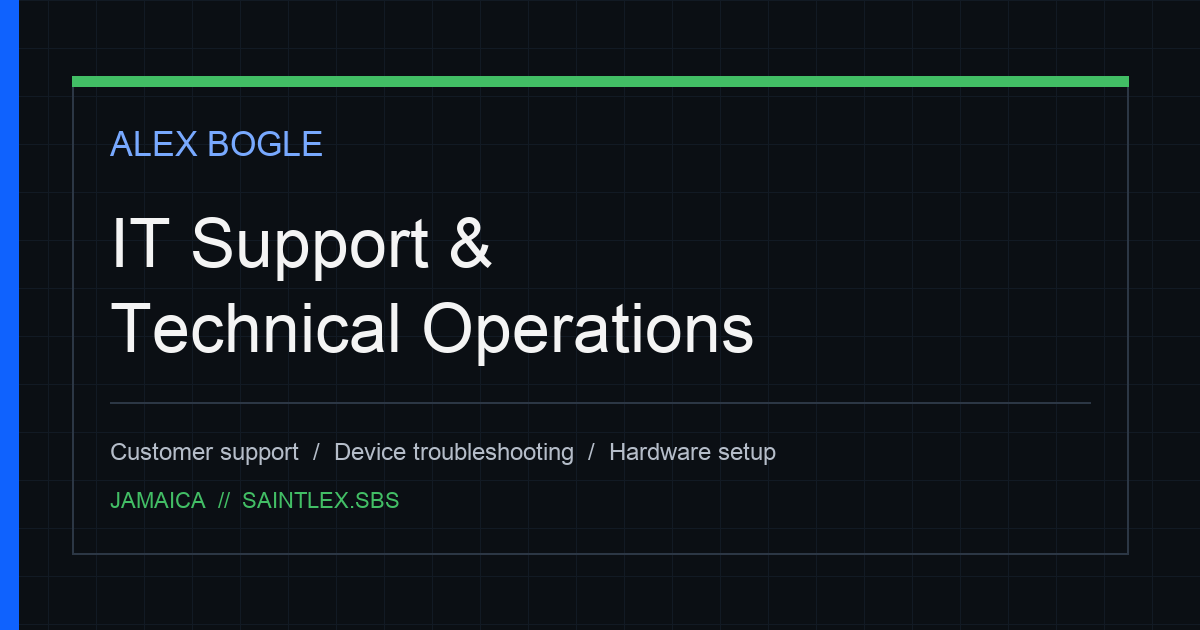
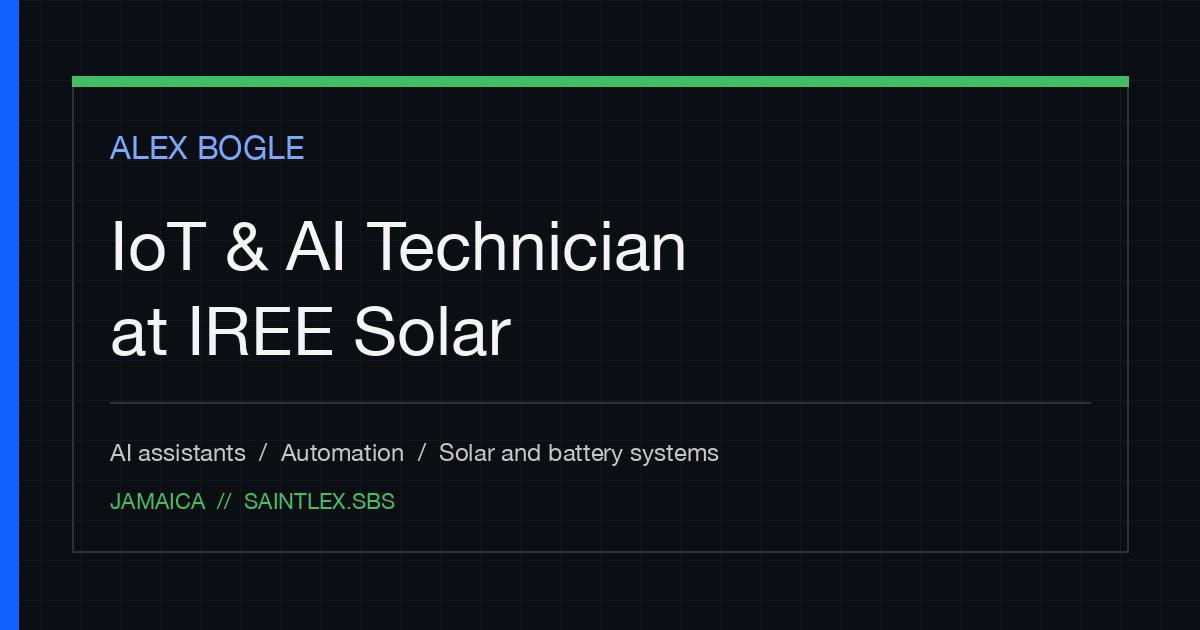
Add current IREE Solar work to portfolio (#23)
* content: add current IREE Solar work to portfolio

Hero, IREE experience bullets, three IREE project cards ahead of the labs,
current-role and energy tool groups, footer date. Design unchanged.

Claude-Session: https://claude.ai/code/session_01Gg8kvj5cPKe7bPg5yoCSs5

* content: refresh link preview image, manifest and meta descriptions

Claude-Session: https://claude.ai/code/session_01Gg8kvj5cPKe7bPg5yoCSs5

* content: reorganise tools around current role, earlier roles and learning

Claude-Session: https://claude.ai/code/session_01Gg8kvj5cPKe7bPg5yoCSs5

* content: make focus areas and contact line reflect current work

Claude-Session: https://claude.ai/code/session_01Gg8kvj5cPKe7bPg5yoCSs5

* content: remove duplicate method and Professional Direction sections

Renumber remaining sections and drop the Method nav link.

Claude-Session: https://claude.ai/code/session_01Gg8kvj5cPKe7bPg5yoCSs5

---------

diff --git a/index.html b/index.html
@@ -4,12 +4,12 @@
   <meta charset="utf-8">
   <meta name="viewport" content="width=device-width, initial-scale=1">
   <title>Alex Bogle | IoT &amp; AI Technician</title>
-  <meta name="description" content="Alex Bogle is an IoT &amp; AI Technician based in Jamaica, working across connected systems, AI-assisted automation, networking, systems integration, technical operations, and energy technology.">
+  <meta name="description" content="Alex Bogle is an IoT &amp; AI Technician at IREE Solar in Jamaica, building AI assistants, automation, and reporting for solar and battery systems.">
   <meta name="theme-color" content="#0b0f14">
   <link rel="canonical" href="https://saintlex.sbs/">
   <meta property="og:type" content="profile">
   <meta property="og:title" content="Alex Bogle | IoT &amp; AI Technician">
-  <meta property="og:description" content="IoT, AI-assisted automation, systems integration, networking, technical operations, and energy technology.">
+  <meta property="og:description" content="IoT &amp; AI Technician at IREE Solar in Jamaica: AI assistants, automation, and solar and battery systems.">
   <meta property="og:url" content="https://saintlex.sbs/">
   <meta property="og:image" content="https://saintlex.sbs/social-preview.png">
   <meta property="og:image:width" content="1200">
@@ -17,7 +17,7 @@
   <meta property="og:image:alt" content="Alex Bogle, IoT and AI Technician">
   <meta name="twitter:card" content="summary_large_image">
   <meta name="twitter:title" content="Alex Bogle | IoT &amp; AI Technician">
-  <meta name="twitter:description" content="IoT, AI-assisted automation, systems integration, networking, technical operations, and energy technology.">
+  <meta name="twitter:description" content="IoT &amp; AI Technician at IREE Solar in Jamaica: AI assistants, automation, and solar and battery systems.">
   <meta name="twitter:image" content="https://saintlex.sbs/social-preview.png">
   <meta name="twitter:image:alt" content="Alex Bogle, IoT and AI Technician">
   <link rel="icon" href="favicon.svg" type="image/svg+xml">
@@ -61,7 +61,6 @@
       <nav aria-label="Primary navigation">
         <a href="#experience">Experience</a>
         <a href="#support">Skills</a>
-        <a href="#method">Method</a>
         <a href="#evidence">Projects</a>
         <a href="#toolkit">Toolkit</a>
         <a href="#contact">Contact</a>
@@ -73,9 +72,9 @@
     <section class="hero" id="top">
       <div class="shell hero-grid">
         <div class="hero-copy">
-          <p class="eyebrow"><span class="status-dot" aria-hidden="true"></span>Based in Jamaica · Open to eligible remote opportunities</p>
+          <p class="eyebrow"><span class="status-dot" aria-hidden="true"></span>Based in Jamaica · IoT &amp; AI Technician at IREE Solar</p>
           <h1>IoT <span>&amp;</span> AI<br>Technician</h1>
-          <p class="hero-intro">I work across connected systems, AI-assisted automation, networking, systems integration, technical operations, and energy technology, with an emphasis on secure, testable, documented implementation.</p>
+          <p class="hero-intro">I build and run the AI and automation tools behind IREE Solar, a solar and battery installer in Jamaica: a staff assistant, a customer website chat, and performance reports for solar and battery systems. I keep the work secure, tested and documented.</p>
           <div class="actions">
             <a class="button primary" href="mailto:bogle.alex@hotmail.com">Email me <span aria-hidden="true">↗</span></a>
             <a class="button secondary" href="https://www.linkedin.com/in/alex-bogle/" target="_blank" rel="noopener noreferrer" aria-label="LinkedIn profile (opens in a new tab)">LinkedIn <span aria-hidden="true">↗</span></a>
@@ -111,56 +110,38 @@
         <div class="section-heading">
           <p class="kicker">01 / TECHNICAL FOCUS</p>
           <h2>Technical Focus</h2>
-          <p>These areas combine current professional work with documented hands-on labs. Professional experience, experiments, and reference material are kept distinct.</p>
+          <p>What I work on day to day at IREE Solar, backed by my own labs.</p>
         </div>
 
         <div class="card-grid four">
           <article class="support-card">
             <p class="card-index">01</p>
             <h3>IoT and connected systems</h3>
-            <p>Device integration, telemetry, remote access, networked equipment, system state, and operational troubleshooting.</p>
+            <p>Solar and battery monitoring data, Powerwall systems, device telemetry and remote troubleshooting, plus an MQTT telemetry lab.</p>
           </article>
           <article class="support-card">
             <p class="card-index">02</p>
             <h3>AI and automation</h3>
-            <p>Agentic development, evaluation, APIs, automation design, and human-in-the-loop controls.</p>
+            <p>A staff assistant and a customer website chat: document retrieval, evaluation sets, guard rails and hand-off to people.</p>
           </article>
           <article class="support-card">
             <p class="card-index">03</p>
             <h3>Systems integration</h3>
-            <p>APIs, business systems, data flows, workflow mapping, documentation, and maintainable integration patterns.</p>
+            <p>Connecting business systems such as ServiceM8, Google Workspace, Squarespace and n8n through APIs and documented workflows.</p>
           </article>
           <article class="support-card">
             <p class="card-index">04</p>
             <h3>Infrastructure and energy systems</h3>
-            <p>Networking, Linux, SSH, cloud fundamentals, solar and battery system context, monitoring, and technical operations.</p>
+            <p>Running the company server: Linux, Docker, gated staff access, image scans, health checks and tested backups.</p>
           </article>
         </div>
-      </div>
-    </section>
-
-    <section class="section alt" id="method">
-      <div class="shell split">
-        <div class="section-heading sticky-heading">
-          <p class="kicker">02 / ENGINEERING METHOD</p>
-          <h2>Engineering Method</h2>
-          <p>I define the system boundary, collect evidence, test safely, implement controlled changes, verify results, and document what happened.</p>
-        </div>
-
-        <ol class="steps">
-          <li><span>1</span><div><h3>Define the problem</h3><p>What changed? Who is affected? What still works? What is the business or user impact?</p></div></li>
-          <li><span>2</span><div><h3>Collect evidence</h3><p>Reproduce the issue where safe, inspect logs and status, and capture exact errors without exposing personal data.</p></div></li>
-          <li><span>3</span><div><h3>Test the simplest cause</h3><p>Check one layer at a time and compare expected versus actual results.</p></div></li>
-          <li><span>4</span><div><h3>Fix and verify</h3><p>Apply a reversible change where possible, confirm the outcome, and check for side effects.</p></div></li>
-          <li><span>5</span><div><h3>Close the loop</h3><p>Explain the result clearly, document the resolution, and schedule follow-up when needed.</p></div></li>
-        </ol>
       </div>
     </section>
 
     <section class="section experience" id="experience">
       <div class="shell">
         <div class="section-heading">
-          <p class="kicker">03 / PROFESSIONAL EXPERIENCE</p>
+          <p class="kicker">02 / PROFESSIONAL EXPERIENCE</p>
           <h2>Professional Experience</h2>
           <p>My current work is in IoT and AI, supported by earlier experience in technical support, hardware, asset management, customer operations, and documentation.</p>
         </div>
@@ -172,9 +153,18 @@
                 <h3>IREE Solar</h3>
                 <p>IoT &amp; AI Technician</p>
               </div>
-              <span>Current role</span>
+              <span>Since August 2026</span>
             </div>
-            <p>Works across IoT, AI-assisted automation, systems integration, networking, technical documentation, and energy-technology operations in a solar-industry environment.</p>
+            <div class="experience-body">
+              <p>Works across IoT, AI-assisted automation, systems integration, networking, technical documentation, and energy-technology operations in a solar-industry environment.</p>
+              <ul>
+                <li>Built and run a staff AI assistant that answers product questions from manufacturer manuals and datasheets, with sign-in, rate limits and a fixed test set I rerun after every change.</li>
+                <li>Built a customer chat for the company website that answers only from approved public facts and hands anything else to the team.</li>
+                <li>Redesigned the company website on Squarespace from version-controlled source. Launch is pending approval.</li>
+                <li>Produce customer and internal performance reports for solar and battery sites from system monitoring data.</li>
+                <li>Run the server behind these tools: Docker, gated staff access, automated image scans, health checks and nightly backups with a tested restore.</li>
+              </ul>
+            </div>
           </article>
           <article class="experience-entry">
             <div class="experience-heading">
@@ -227,27 +217,47 @@
     <section class="section" id="evidence">
       <div class="shell">
         <div class="section-heading">
-          <p class="kicker">04 / ENGINEERING PROJECTS</p>
+          <p class="kicker">03 / ENGINEERING PROJECTS</p>
           <h2>Technical Projects</h2>
-          <p>Projects are labeled by status, and professional work, labs, prototypes, and reference material are kept distinct.</p>
+          <p>Professional work at IREE Solar comes first, followed by my own labs. Each project is labeled by status.</p>
         </div>
 
         <div class="evidence-grid">
           <article class="evidence-card featured">
-            <div class="card-topline"><span class="tag lab">Sanitized case study</span><span>Linux / homelab</span></div>
-            <h3>Android Linux Homelab</h3>
-            <p class="card-summary">Repurposed a Samsung Galaxy S7 as a constrained server lab using Android, Termux, Nginx, PHP-FPM, MariaDB, Cloudflare Tunnel, monitoring, scripting, and backup/recovery experiments.</p>
+            <div class="card-topline"><span class="tag docs">Professional work</span><span>AI / IREE Solar</span></div>
+            <h3>Staff Assistant and Website Chat</h3>
+            <p class="card-summary">An AI assistant that answers staff product questions from manufacturer documents, plus a public website chat that only answers from approved company facts.</p>
             <div class="planned-evidence">
               <h4>Engineering focus</h4>
               <ul>
-                <li>Resource-constrained system administration</li>
-                <li>Web-service deployment and diagnostics</li>
-                <li>Tunnel-based remote publishing</li>
-                <li>Monitoring and automation</li>
-                <li>Safe publication boundaries</li>
+                <li>Document retrieval with hybrid search and reranking</li>
+                <li>Prompt-injection and output guards</li>
+                <li>Per-person and per-visitor rate limits</li>
+                <li>Repeatable evaluation set</li>
+                <li>Docker deployment, backups and health checks</li>
               </ul>
             </div>
-            <p class="availability"><strong>Publication boundary:</strong> The historical source repository remains private because it contains operational artifacts. This portfolio exposes only a sanitized case study.</p>
+            <p class="availability"><strong>Status:</strong> Staff pilot running. The website chat goes live with the new company website.</p>
+          </article>
+
+          <article class="evidence-card">
+            <div class="card-topline"><span class="tag progress">Launch pending</span><span>Web / IREE Solar</span></div>
+            <h3>Company Website Redesign</h3>
+            <p class="card-summary">A full Squarespace redesign built from version-controlled source, with custom CSS, checks at several screen widths, and a code review and fix pass before launch.</p>
+            <dl class="project-facts">
+              <div><dt>Tools used</dt><dd>Squarespace, custom CSS and code injection, Git and GitHub</dd></div>
+              <div><dt>Current status</dt><dd>Complete and waiting on launch approval.</dd></div>
+            </dl>
+          </article>
+
+          <article class="evidence-card">
+            <div class="card-topline"><span class="tag docs">Professional work</span><span>Energy / IREE Solar</span></div>
+            <h3>Solar and Battery Performance Reports</h3>
+            <p class="card-summary">Customer and internal PDF reports that explain a site's solar generation, grid use, battery behaviour, alerts and data gaps in plain language.</p>
+            <dl class="project-facts">
+              <div><dt>Tools used</dt><dd>Python, system monitoring data, PDF generation</dd></div>
+              <div><dt>Approach</dt><dd>Read-only data collection, and a reporting gap is never presented as an equipment fault.</dd></div>
+            </dl>
           </article>
 
           <article class="evidence-card">
@@ -271,6 +281,22 @@
             <p class="availability">All readings are synthetic; no employer, customer, site, credential, inverter endpoint, or production telemetry is used.</p>
             <a class="card-link" href="https://github.com/SaintChris/iot-energy-telemetry-lab" target="_blank" rel="noopener noreferrer" aria-label="View IoT Energy Telemetry Lab repository (opens in a new tab)">View repository <span aria-hidden="true">↗</span></a>
           </article>
+          <article class="evidence-card featured">
+            <div class="card-topline"><span class="tag lab">Sanitized case study</span><span>Linux / homelab</span></div>
+            <h3>Android Linux Homelab</h3>
+            <p class="card-summary">Repurposed a Samsung Galaxy S7 as a constrained server lab using Android, Termux, Nginx, PHP-FPM, MariaDB, Cloudflare Tunnel, monitoring, scripting, and backup/recovery experiments.</p>
+            <div class="planned-evidence">
+              <h4>Engineering focus</h4>
+              <ul>
+                <li>Resource-constrained system administration</li>
+                <li>Web-service deployment and diagnostics</li>
+                <li>Tunnel-based remote publishing</li>
+                <li>Monitoring and automation</li>
+                <li>Safe publication boundaries</li>
+              </ul>
+            </div>
+            <p class="availability"><strong>Publication boundary:</strong> The historical source repository remains private because it contains operational artifacts. This portfolio exposes only a sanitized case study.</p>
+          </article>
         </div>
       </div>
     </section>
@@ -278,61 +304,54 @@
     <section class="section alt" id="toolkit">
       <div class="shell toolkit-grid">
         <div class="section-heading">
-          <p class="kicker">05 / TOOLS AND PLATFORMS</p>
+          <p class="kicker">04 / TOOLS AND PLATFORMS</p>
           <h2>Tools and Platforms</h2>
-          <p>Professional-use tools are separated from the technologies I am currently studying.</p>
+          <p>What I use in my current role, what I used in earlier roles, and what I am learning now.</p>
         </div>
 
         <div class="tool-groups">
           <article>
-            <span class="depth-label current">Professional use</span>
-            <h3>Support and administration</h3>
+            <span class="depth-label current">Current role</span>
+            <h3>AI and automation</h3>
             <ul class="pill-list">
-              <li>Salesforce</li><li>Autotask</li><li>AssetTiger</li><li>Google Workspace</li><li>Slack</li><li>PuTTY</li>
+              <li>Open WebUI</li><li>Document retrieval</li><li>ChromaDB</li><li>Hybrid search and reranking</li><li>Hosted LLM APIs</li><li>n8n</li><li>Claude Code</li><li>Codex</li>
             </ul>
           </article>
           <article>
-            <span class="depth-label current">Professional use</span>
-            <h3>Hardware and devices</h3>
+            <span class="depth-label current">Current role</span>
+            <h3>Infrastructure</h3>
             <ul class="pill-list">
-              <li>Desktop setup</li><li>RAM installation</li><li>Storage installation</li><li>Printer setup and testing</li><li>Consumer device troubleshooting</li><li>Firmware updates</li><li>Device configuration</li><li>Bluetooth troubleshooting</li>
+              <li>Linux (Ubuntu)</li><li>Docker and Compose</li><li>Caddy</li><li>Cloudflare Access and Tunnel</li><li>GitHub Actions</li><li>Dependabot</li><li>Trivy</li><li>restic backups</li>
             </ul>
           </article>
           <article>
-            <span class="depth-label current">Professional use</span>
-            <h3>Operations systems</h3>
+            <span class="depth-label current">Current role</span>
+            <h3>Development</h3>
             <ul class="pill-list">
-              <li>QuickBooks Enterprise</li><li>River Cities</li><li>ASYCUDA World</li><li>Google Sheets</li>
+              <li>Python</li><li>Node.js</li><li>TypeScript</li><li>JavaScript</li><li>Bash</li><li>REST APIs</li><li>Git and GitHub</li><li>Squarespace and custom CSS</li>
             </ul>
           </article>
           <article>
-            <span class="depth-label next">Developing knowledge</span>
-            <h3>Current engineering development</h3>
+            <span class="depth-label current">Current role</span>
+            <h3>Energy and field systems</h3>
             <ul class="pill-list">
-              <li>Linux</li><li>Networking diagnostics</li><li>Bash</li><li>AWS fundamentals</li><li>HTTP</li><li>APIs</li><li>AI systems</li><li>IoT integration</li><li>Energy monitoring</li>
+              <li>Tesla Powerwall systems</li><li>Solar and battery monitoring</li><li>Inverter and battery datasheets</li><li>ServiceM8</li><li>Google Workspace</li>
             </ul>
           </article>
-        </div>
-      </div>
-    </section>
-
-    <section class="section roles" id="roles">
-      <div class="shell">
-        <div class="section-heading centered">
-          <p class="kicker">06 / PROFESSIONAL DIRECTION</p>
-          <h2>Professional Direction</h2>
-        </div>
-        <ul class="role-list">
-          <li>IoT Systems</li>
-          <li>AI &amp; Automation</li>
-          <li>Systems Integration</li>
-          <li>Technical Operations</li>
-          <li>Cloud &amp; Infrastructure</li>
-          <li>Energy Technology</li>
-        </ul>
-        <div class="transparency-note">
-          <strong>Career foundation</strong>
-          <p>This site presents a concise public view of my current work and verified experience. For current professional details, contact me by email or connect with me on LinkedIn.</p>
+          <article>
+            <span class="depth-label foundation">Earlier roles</span>
+            <h3>Support, hardware and operations</h3>
+            <ul class="pill-list">
+              <li>Salesforce</li><li>Autotask</li><li>AssetTiger</li><li>Slack</li><li>PuTTY</li><li>QuickBooks Enterprise</li><li>River Cities</li><li>ASYCUDA World</li><li>Desktop setup and upgrades</li><li>Printer setup</li><li>Device and firmware troubleshooting</li><li>Bluetooth troubleshooting</li>
+            </ul>
+          </article>
+          <article>
+            <span class="depth-label next">Learning now</span>
+            <h3>Current development</h3>
+            <ul class="pill-list">
+              <li>AWS fundamentals</li><li>MQTT</li><li>IoT integration</li><li>Networking diagnostics</li>
+            </ul>
+          </article>
         </div>
       </div>
     </section>
@@ -340,11 +359,11 @@
     <section class="contact" id="contact">
       <div class="shell contact-grid">
         <div>
-          <p class="kicker">07 / CONTACT</p>
+          <p class="kicker">05 / CONTACT</p>
           <h2>Contact</h2>
         </div>
         <div class="contact-copy">
-          <p>Based in Jamaica. My current professional focus is IoT, AI-assisted automation, systems integration, infrastructure, and energy technology.</p>
+          <p>Based in Jamaica. I work as an IoT &amp; AI Technician at IREE Solar. Email is the quickest way to reach me.</p>
           <div class="actions">
             <a class="button primary" href="mailto:bogle.alex@hotmail.com">bogle.alex@hotmail.com <span aria-hidden="true">↗</span></a>
             <a class="button secondary" href="https://www.linkedin.com/in/alex-bogle/" target="_blank" rel="noopener noreferrer" aria-label="LinkedIn profile (opens in a new tab)">LinkedIn <span aria-hidden="true">↗</span></a>
@@ -358,7 +377,7 @@
   <footer>
     <div class="shell footer-grid">
       <span>Alex Bogle · Jamaica</span>
-      <span>IoT &amp; AI Technician · Updated September 2026</span>
+      <span>IoT &amp; AI Technician · Updated October 2026</span>
     </div>
   </footer>
 </body>

diff --git a/styles.css b/styles.css
@@ -489,6 +489,17 @@ h1 span {
   text-transform: uppercase;
 }
 
+.experience-body p,
+.experience-body ul {
+  margin: 0 0 12px;
+  color: var(--text-secondary);
+  line-height: 1.65;
+}
+
+.experience-body ul {
+  padding-left: 20px;
+}
+
 .experience-entry > p {
   max-width: 720px;
   line-height: 1.65;

diff --git a/tests/test_portfolio.py b/tests/test_portfolio.py
@@ -58,17 +58,6 @@ class PortfolioContentTests(unittest.TestCase):
         self.assertIn("IoT &amp; AI", self.html)
         self.assertIn("Based in Jamaica", self.html)
 
-    def test_target_roles_are_explicit(self):
-        for role in (
-            "IoT Systems",
-            "AI &amp; Automation",
-            "Systems Integration",
-            "Technical Operations",
-            "Cloud &amp; Infrastructure",
-            "Energy Technology",
-        ):
-            self.assertIn(role, self.html)
-
     def test_resume_file_is_not_published(self):
         self.assertFalse((ROOT / "Alex_Bogle_IT_Support_Resume.pdf").exists())
         self.assertNotIn("Alex_Bogle_IT_Support_Resume.pdf", self.html)
@@ -141,7 +130,7 @@ class PortfolioContentTests(unittest.TestCase):
         self.assertEqual(struct.unpack(">II", header[16:24]), (1200, 630))
 
     def test_footer_date_is_current(self):
-        self.assertIn("Updated September 2026", self.html)
+        self.assertIn("Updated October 2026", self.html)
         self.assertNotIn("Updated July 2026", self.html)
 
     def test_hero_and_contact_use_public_contact_channels(self):
@@ -194,11 +183,9 @@ class PortfolioContentTests(unittest.TestCase):
     def test_direct_recruiter_copy_and_verified_toolkit(self):
         direct_headings = (
             "Technical Focus",
-            "Engineering Method",
             "Professional Experience",
             "Technical Projects",
             "Tools and Platforms",
-            "Professional Direction",
             "Contact",
         )
         for heading in direct_headings:
@@ -325,12 +312,8 @@ class PortfolioContentTests(unittest.TestCase):
                 for tag, attrs in self.parser.tags
             )
         )
-        self.assertTrue(
-            any(tag == "ol" and attrs.get("class") == "steps" for tag, attrs in self.parser.tags)
-        )
-        self.assertTrue(
-            any(tag == "ul" and attrs.get("class") == "role-list" for tag, attrs in self.parser.tags)
-        )
+        for removed in ('id="method"', 'id="roles"', "Professional Direction", "02 / ENGINEERING METHOD"):
+            self.assertNotIn(removed, self.html)
         self.assertEqual(len(self.parser.ids), len(set(self.parser.ids)))
         internal_targets = {value for value in self.parser.ids}
         for href in self.parser.hrefs:
